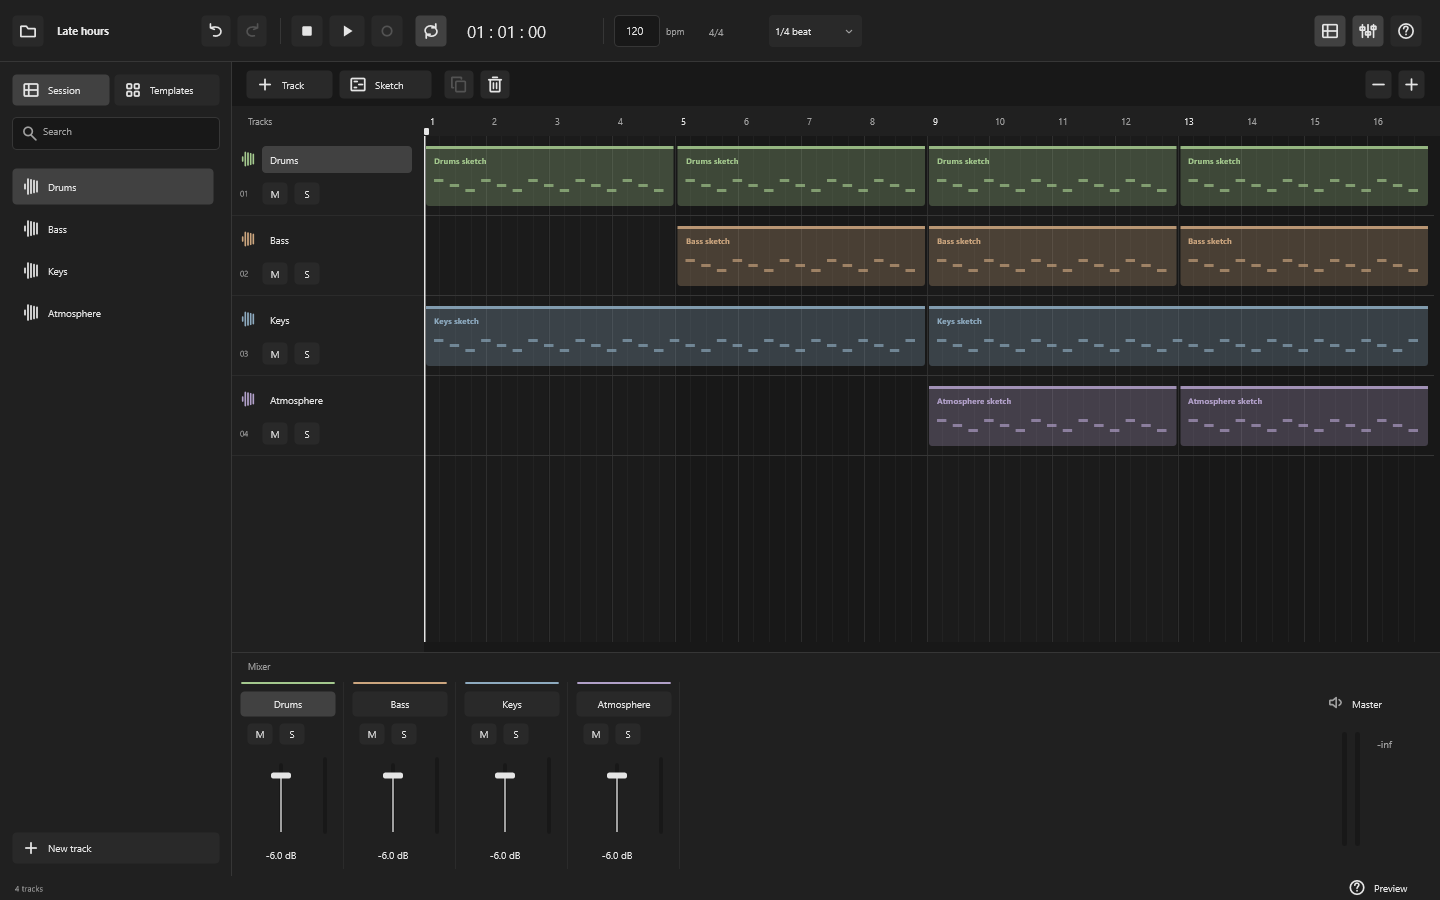
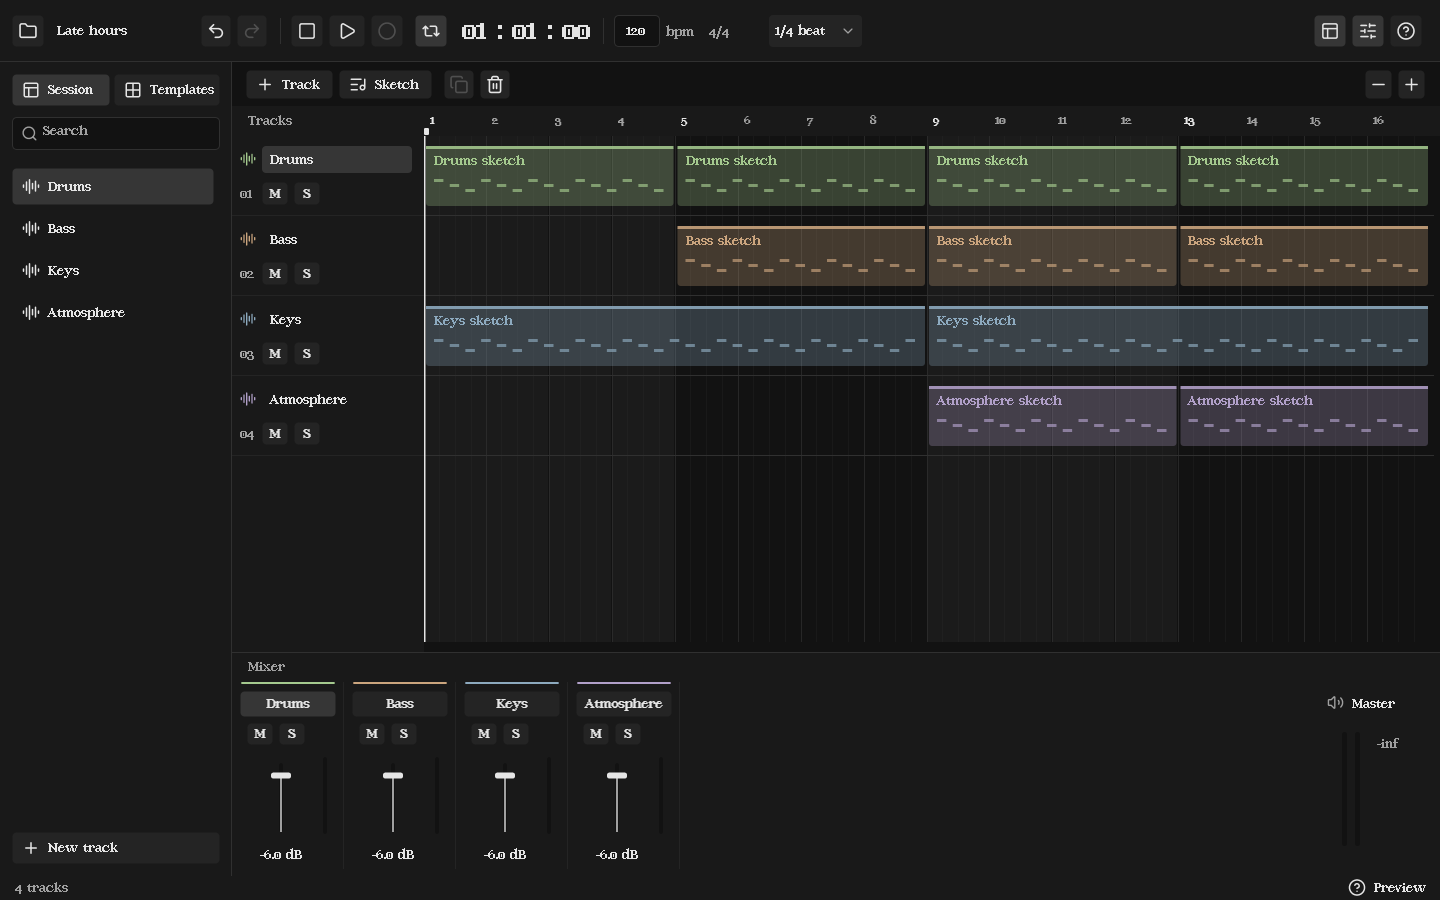
Stabilize temporary Git fixtures and finalize verified native Windows rendering evidence

diff --git a/tests/test_ctest_diagnostics.py b/tests/test_ctest_diagnostics.py
@@ -1,6 +1,9 @@
 import importlib.util
 from pathlib import Path
 import unittest
+import subprocess
+import sys
+import tempfile
 
 SPEC = importlib.util.spec_from_file_location('annotate_ctest', Path(__file__).resolve().parents[1] / 'tools/annotate_ctest.py')
 DIAG = importlib.util.module_from_spec(SPEC)
@@ -29,3 +32,16 @@ class CTestDiagnosticsTests(unittest.TestCase):
     def test_many_failed_tests_do_not_overflow_annotations(self):
         lines = DIAG.annotations(''.join(f'{n}/20 Testing: test{n}\nTest Failed.\n' for n in range(20)))
         self.assertEqual(len(lines), 8)
+
+    def test_cli_handles_ctest_directory_plain_log_and_missing_log(self):
+        with tempfile.TemporaryDirectory() as directory:
+            root = Path(directory)
+            log = root / 'Testing/Temporary/LastTest.log'
+            log.parent.mkdir(parents=True)
+            log.write_text('1/1 Testing: failure\nassertion context\nTest Failed.\n')
+            for path, expected in ((root, 'assertion context'), (log, 'assertion context'),
+                                   (root / 'missing.log', 'Test log unavailable')):
+                result = subprocess.run([sys.executable, str(SPEC.origin), str(path)], capture_output=True, text=True)
+                self.assertEqual(result.returncode, 0)
+                self.assertIn(expected, result.stdout)
+                self.assertEqual(len(result.stdout.splitlines()), 1)

diff --git a/tests/test_architecture.py b/tests/test_architecture.py
@@ -225,6 +225,11 @@ class ChangeEvidenceTests(PolicyFixture):
     def setUp(self):
         super().setUp()
         self.git("init", "-q")
+        # Git 2.55 runner background writers can outlive commit and race rmtree.
+        # Keep throwaway repos synchronous; never ignore/retry cleanup errors.
+        for key, value in (("maintenance.auto", "false"), ("gc.auto", "0"),
+                           ("gc.autoDetach", "false"), ("core.fsmonitor", "false")):
+            self.git("config", key, value)
         self.git("config", "user.email", "tests@example.invalid")
         self.git("config", "user.name", "Policy tests")
         self.git("add", ".")
@@ -236,6 +241,11 @@ class ChangeEvidenceTests(PolicyFixture):
     def change_engine(self):
         path = self.root / "modules/engine/src/engine.cpp"
         path.write_text(path.read_text() + "\n// behavioral change\n")
+
+    def test_fixture_git_background_tasks_disabled(self):
+        for key, value in (("maintenance.auto", "false"), ("gc.auto", "0"),
+                           ("gc.autoDetach", "false"), ("core.fsmonitor", "false")):
+            self.assertEqual(self.git("config", "--get", key).strip(), value)
 
     def test_code_without_evidence_fails(self):
         self.change_engine()

diff --git a/tools/annotate_ctest.py b/tools/annotate_ctest.py
@@ -16,5 +16,5 @@ if __name__ == '__main__':
     path = Path(sys.argv[1])
     if path.is_dir():
         path = path / 'Testing/Temporary/LastTest.log'
-    text = path.read_text(errors='replace') if path.exists() else 'CTest log unavailable; inspect the preceding failed step.'
+    text = path.read_text(errors='replace') if path.exists() else 'Test log unavailable; inspect the preceding failed step.'
     print('\n'.join(annotations(text)))

diff --git a/docs/changes/0005-lucide-retrobyte.md b/docs/changes/0005-lucide-retrobyte.md
@@ -21,13 +21,22 @@ unresolved; no commercial/public release is authorized or claimed.
   font/whole-icon-mask checks, SVG tint reset and packaged-notice/icon regressions.
 
 ## Validation
-- Local architecture/change checks and 55 Python policy/asset tests passed.
+- Local architecture/change checks and 61 Python policy/asset/diagnostic tests passed.
 - Local analysis CTest 7/7; separate ASan/UBSan/leak CTest 7/7 passed.
 - Strict C++20 GCC GUI/app/test syntax against pinned JUCE passed (-Werror).
 - Compiled domain/adapter/shell coverage 100% lines (150/150), 97.3% branches
   (215/221), 100% functions (45/45). Windows-only rendering is excluded.
-- Windows GUI/runtime/installer gates pending; no merge until all pass.
-The real Windows render must be refreshed/visually inspected, not a mockup.
+- Windows Debug/Release native suites passed 9/9 at 59baf13 (run 40241047049).
+- Actual Windows render refreshed and inspected: `docs/images/workspace.png`,
+  1440x900, 42,809 bytes, SHA256
[1 lines of base64/hex data omitted]
+  Derived from Release check 121312920033, source 59baf13; no production GUI
+  changes followed this capture. This is a native render, not a mockup.
+- Windows installer/portable check 121313707477 passed at 59baf13: supported
+  Release setup/build/CTest, SHA-verified Inno Setup compiler, packaging and real
+  install/upgrade/uninstall/portable/icon/notices lifecycle tests. Final-head
+  required checks must also pass before merge; authoritative results and the
+  development artifact are linked in PR #5.
 Source review caught JUCE drawWithin fitting ink bounds instead of the SVG
 viewBox; explicit 24x24 mapping plus native padding/stroke assertions preserve
 Lucide's intended geometry rather than inflating each symbol independently.
@@ -54,22 +63,18 @@ taskbar/Alt-Tab and title bar. Test minimum size, DPI/readability, text entry an
 accessibility manually. Still in-memory sketches, no audio/recording/saving.
 Font license, commercial JUCE terms, signing and public release remain pending.
 
-### CI diagnostic follow-up
-Native Windows Debug/Release suites at bdb48ac passed, including the strict
-padding/stroke readback and font/icon-mask tests. The coverage job's CTest failed;
-Azure log download is unavailable from the coding environment. A temporary,
-read-only Actions log retrieval step will diagnose that exact failure before
-finalizing; no gate is being bypassed or marked passed without evidence.
-
-The next coverage CTest passed; log retrieval itself failed. A later ASan CTest
-also failed, so both Linux jobs now annotate their own failing CTest sections
-without relying on Azure downloads. Added four tests for annotation selection,
-command escaping, truncated/crash output and bounds. Temporary repeated native
-startup tests seek reproducible evidence rather than silently rerunning a red gate.
-
-Native startup stress (30 repetitions per native binary) passed locally under
-ASan/UBSan and in CI. The log retrieval failure is gh CLI's explicit ANSI-output
-protection, not a coverage test failure; opt in for these known build logs, then
-strip ANSI before annotation. Retrieve the exact original coverage, ASan and
-Python-policy failures. Python-policy logs are now piped through tee with explicit
-bash/pipefail and annotated on failure; failed tests still fail the step/job.
+### CI diagnostic follow-up — resolved fixture race
+The exact original coverage, ASan and Python-policy failures all identify
+`test_removed_test_not_evidence` cleanup, not a failed policy assertion or memory
+sanitizer finding: Git 2.55 on Linux was still writing inside the throwaway `.git`
+(`Directory not empty: .git` / `objects`) as TemporaryDirectory removed it.
+The fixture now disables automatic maintenance/GC detachment/fsmonitor before its
+first commit. A regression verifies every setting; 180 fresh fixture lifecycles
+(30 repetitions of all 6 change-evidence cases) passed locally. Cleanup errors
+remain fatal; no retries/ignore-errors, weakened tests or gate bypasses.
+Native startup stress (30 repeats per binary) passed locally and in CI, providing
+additional evidence that the failure was the Python fixture, not native memory.
+Five failure-annotation regressions cover selection, command escaping, partial
+crash output, bounds and CLI directory/file/missing-log behavior. Python output retains bash pipefail while being tee'd.
+Temporary render/log retrieval, extended Actions permissions and diagnostic stress
+steps were removed. Normal required CTest/coverage/sanitizer gates remain intact.

diff --git a/docs/adr/0005-lucide-retrobyte.md b/docs/adr/0005-lucide-retrobyte.md
@@ -23,7 +23,11 @@ retrieve a real Windows render for inspection, then are removed (ADR 0004).
 Desktop readability/DPI/accessibility and actual licensing negotiation remain
 human acceptance tasks; tests and development artifacts do not clear rights.
 
-A coverage-run CTest failure with inaccessible Azure logs requires temporary
-read-only Actions permission on the coverage job to retrieve that exact prior job
-log into bounded GitHub annotations. It does not bypass a test or alter thresholds;
-remove the permission/retrieval step after diagnosis. All final gates must pass.
+CI diagnosis revealed Git 2.55 background writers racing temporary fixture cleanup
+(`.git`/`objects` nonempty), not a domain or sanitizer defect. Throwaway policy
+repos explicitly disable automatic maintenance, GC detachment and fsmonitor before
+the first commit; a regression test verifies those settings. Cleanup errors are
+still fatal, never retried/ignored. Real policy assertions remain unchanged.
+Read-only Actions permission and temporary native-render/log retrieval steps were
+removed after diagnosis. Bounded, escaped local failure annotations remain so
+future CI failures can be investigated without external Azure log access.
